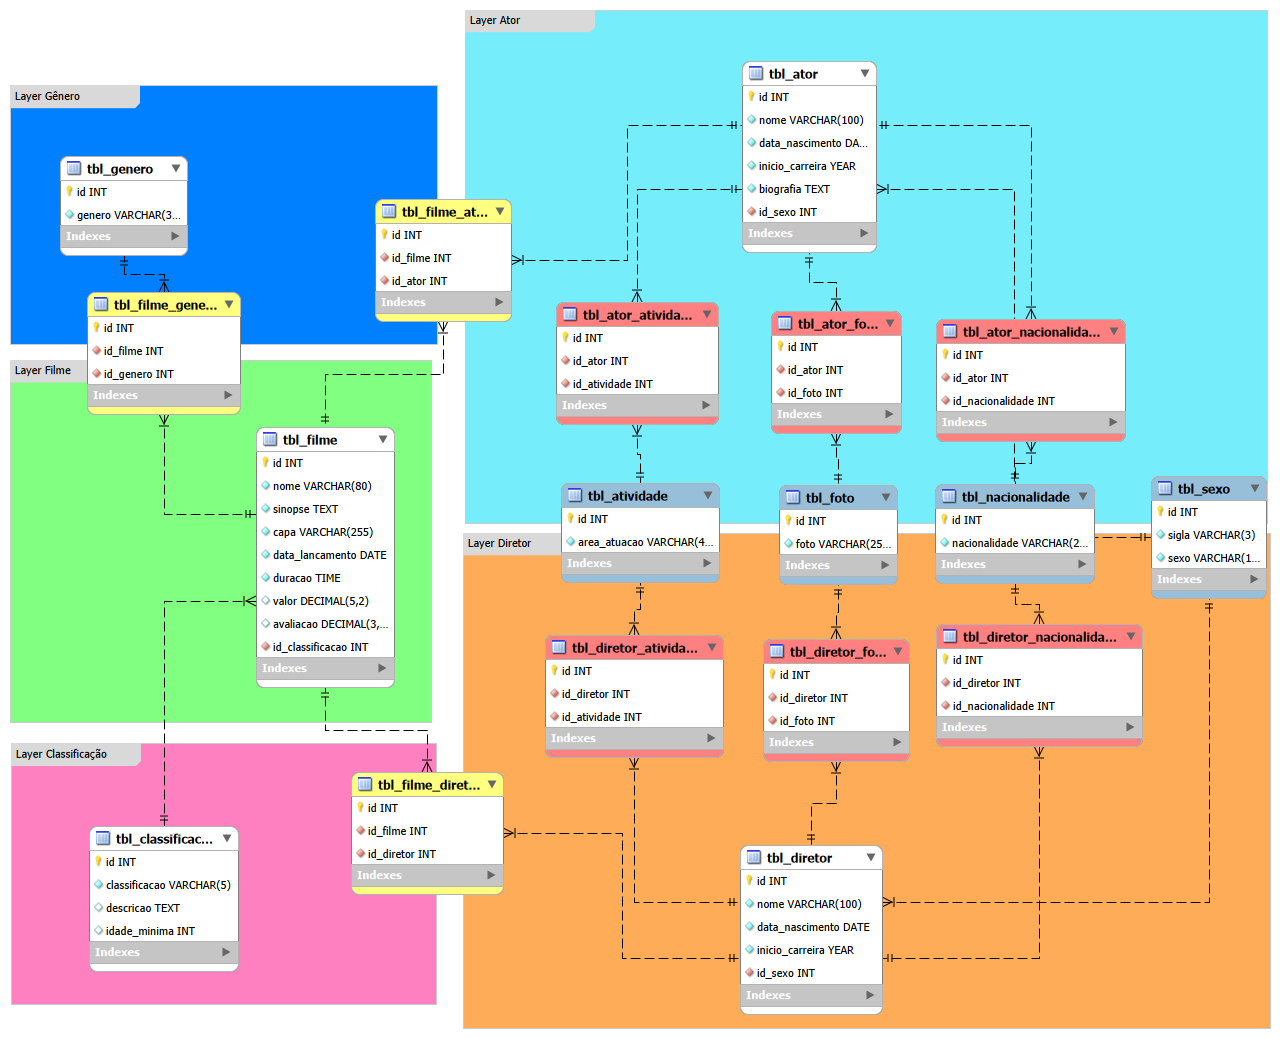
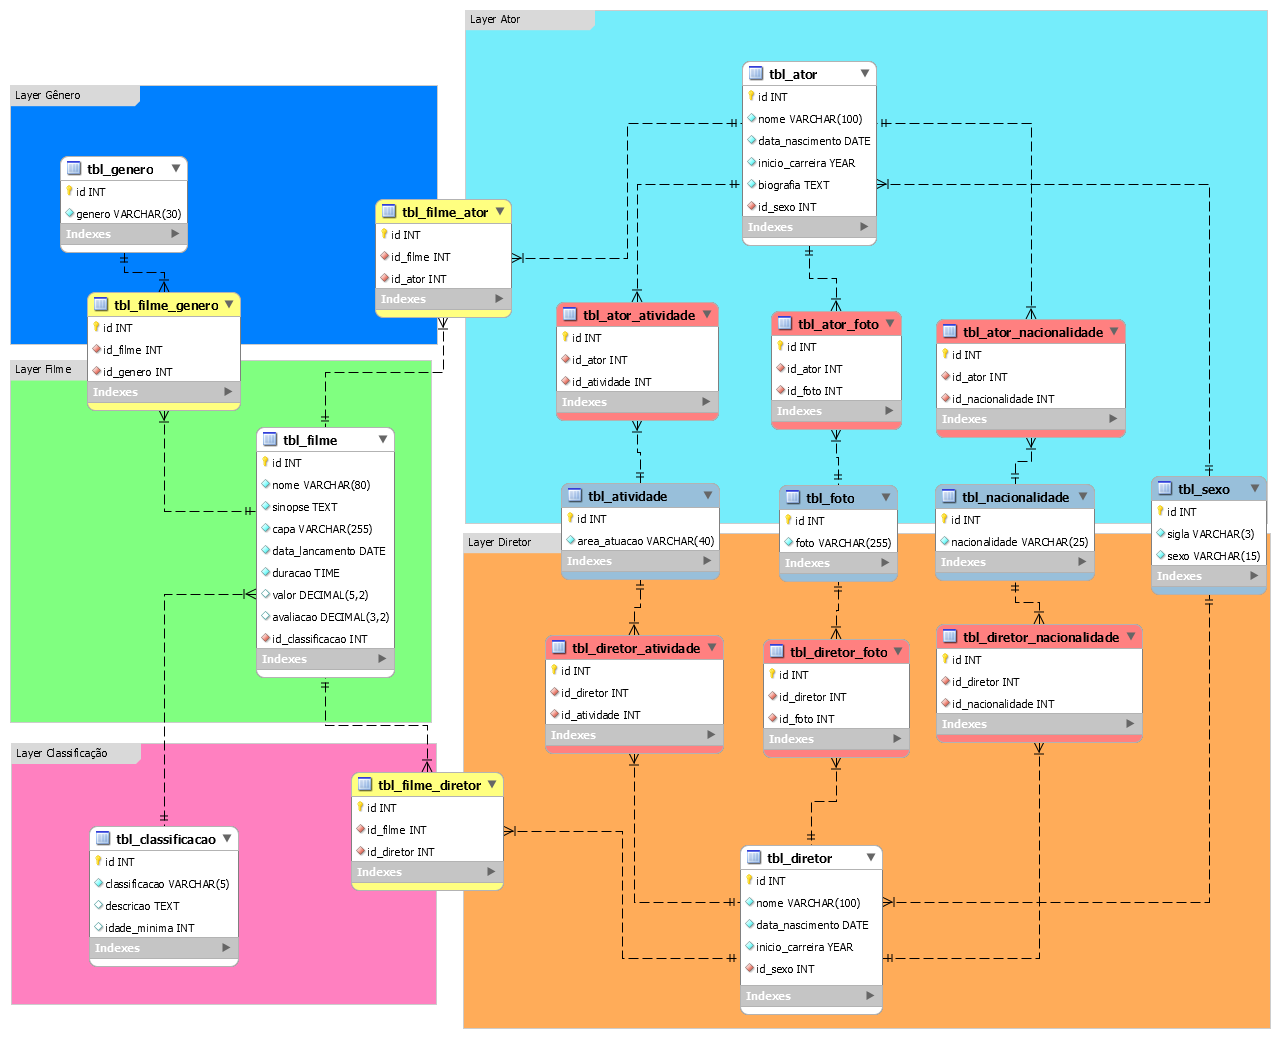
feat: finalizar CRUD de atividade

diff --git a/AULAS/Aula 06/controller/atividade/controller_atividade.js b/AULAS/Aula 06/controller/atividade/controller_atividade.js
@@ -1,0 +1,181 @@
+/*********************************************************************************************************************************
+ * Objetivo: Arquivo responsável pela validação, tratamento e manipulação de dados para realizar o CRUD da atividade profissional.
+ * Data: 17/04/2026 (sexta-feira)
+ * Autor: Gustavo Vidal de Abreu
+ * Versão: 1.0
+*********************************************************************************************************************************/
+
+// Import do arquivo de configurações de mensagens do projeto
+const configMessages = require('../modulo/configMessages.js')
+
+// Import do arquivo do DAO para manipular os dados de atividade profissional no Banco de Dados
+const atividadeDAO = require('../../model/DAO/atividade/atividade.js')
+
+const inserirNovaAtividade = async function (atividade, contentType) {
+    let customMessages = JSON.parse(JSON.stringify(configMessages))
+
+    try {
+        if (String(contentType).toUpperCase() == 'APPLICATION/JSON') {
+            let validar = await validarDados(atividade)
+
+            if (validar) {
+                return validar // status-code: 400
+            } else {
+                let result = await atividadeDAO.insertAtividade(atividade)
+
+                if (result) {
+                    atividade.id = result
+
+                    customMessages.DEFAULT_MESSAGE.status = customMessages.SUCCESS_CREATED_ITEM.status
+                    customMessages.DEFAULT_MESSAGE.status_code = customMessages.SUCCESS_CREATED_ITEM.status_code
+                    customMessages.DEFAULT_MESSAGE.message = customMessages.SUCCESS_CREATED_ITEM.message
+                    customMessages.DEFAULT_MESSAGE.response = atividade
+
+                    return customMessages.DEFAULT_MESSAGE // status-code: 201
+                } else {
+                    return customMessages.ERROR_INTERNAL_SERVER_MODEL // status-code: 500 (model)
+                }
+            }
+        } else {
+            return configMessages.ERROR_CONTENT_TYPE // status-code: 415
+        }
+    } catch (error) {
+        return configMessages.ERROR_INTERNAL_SERVER_CONTROLLER // status-code: 500 (controller)
+    }
+}
+
+const atualizarAtividade = async function (atividade, id, contentType) {
+    let customMessages = JSON.parse(JSON.stringify(configMessages))
+
+    try {
+        if (String(contentType).toUpperCase() == 'APPLICATION/JSON') {
+            let buscarAtividadeResult = await buscarAtividade(id)
+
+            if (buscarAtividadeResult.status) {
+                let validar = await validarDados(atividade)
+
+                if (!validar) {
+                    atividade.id = Number(id)
+
+                    let result = await atividadeDAO.updateAtividade(atividade)
+
+                    if (result) {
+                        customMessages.DEFAULT_MESSAGE.status = customMessages.SUCCESS_UPDATED_ITEM.status
+                        customMessages.DEFAULT_MESSAGE.status_code = customMessages.SUCCESS_UPDATED_ITEM.status_code
+                        customMessages.DEFAULT_MESSAGE.message = customMessages.SUCCESS_UPDATED_ITEM.message
+                        customMessages.DEFAULT_MESSAGE.response = atividade
+
+                        return customMessages.DEFAULT_MESSAGE // status-code: 200
+                    } else {
+                        return customMessages.ERROR_INTERNAL_SERVER_MODEL // status-code: 500 (model)
+                    }
+                } else {
+                    return validar // status-code: 400 (atributo)
+                }
+            } else {
+                return buscarAtividadeResult // status-code: 400 (id) ou 404
+            }
+        } else {
+            return customMessages.ERROR_CONTENT_TYPE // status-code: 415
+        }
+    } catch (error) {
+        return customMessages.ERROR_INTERNAL_SERVER_CONTROLLER // status-code: 500 (controller)
+    }
+}
+
+const listarAtividade = async function () {
+    let customMessages = JSON.parse(JSON.stringify(configMessages))
+
+    try {
+        let result = await atividadeDAO.selectAllAtividade()
+
+        if (result) {
+            if (result.length > 0) {
+                customMessages.DEFAULT_MESSAGE.status = customMessages.SUCCESS_RESPONSE.status
+                customMessages.DEFAULT_MESSAGE.status_code = customMessages.SUCCESS_RESPONSE.status_code
+                customMessages.DEFAULT_MESSAGE.response.count = result.length
+                customMessages.DEFAULT_MESSAGE.response.atividades = result
+
+                return customMessages.DEFAULT_MESSAGE // status-code: 200
+            } else {
+                return customMessages.ERROR_NOT_FOUND // status-code: 404
+            }
+        } else {
+            return customMessages.ERROR_INTERNAL_SERVER_MODEL // status-code: 500 (model)
+        }
+
+    } catch (error) {
+        return customMessages.ERROR_INTERNAL_SERVER_CONTROLLER // status-code: 500 (controller)
+    }
+}
+
+const buscarAtividade = async function (id) {
+    let customMessages = JSON.parse(JSON.stringify(configMessages))
+
+    try {
+        if (id == undefined || String(id).replaceAll(' ', '') == '' || id == null || isNaN(id) || id < 1) {
+            customMessages.ERROR_BAD_REQUEST.field = '[ID] INVÁLIDO'
+            return customMessages.ERROR_BAD_REQUEST // status-code: 400
+        } else {
+            let result = await atividadeDAO.selectByIdAtividade(id)
+
+            if (result) {
+                if (result.length > 0) {
+                    customMessages.DEFAULT_MESSAGE.status = customMessages.SUCCESS_RESPONSE.status
+                    customMessages.DEFAULT_MESSAGE.status_code = customMessages.SUCCESS_RESPONSE.status_code
+                    customMessages.DEFAULT_MESSAGE.response.atividade = result
+
+                    return customMessages.DEFAULT_MESSAGE // status-code: 200
+                } else {
+                    return customMessages.ERROR_NOT_FOUND // status-code: 404
+                }
+            } else {
+                return customMessages.ERROR_INTERNAL_SERVER_MODEL // status-code: 500 (model)
+            }
+        }
+    } catch (error) {
+        return customMessages.ERROR_INTERNAL_SERVER_CONTROLLER // status-code: 500 (controller)
+    }
+}
+
+const excluirAtividade = async function (id) {
+    let customMessages = JSON.parse(JSON.stringify(configMessages))
+
+    try {
+        let buscarAtividadeResult = await buscarAtividade(id)
+
+        if (buscarAtividadeResult.status) {
+            let result = await atividadeDAO.deleteAtividade(id)
+
+            if (result) {
+                return customMessages.SUCCESS_DELETED_ITEM // status-code: 200
+            } else {
+                return customMessages.ERROR_INTERNAL_SERVER_MODEL // status-code: 500 (model)
+            }
+        } else {
+            return buscarAtividadeResult // status-code: 400 (id) ou 404
+        }
+    } catch (error) {
+        return customMessages.ERROR_INTERNAL_SERVER_CONTROLLER // status-code: 500 (controller)
+    }
+}
+
+const validarDados = async function (atividade) {
+    let customMessages = JSON.parse(JSON.stringify(configMessages))
+
+    if (atividade.area_atuacao == undefined || atividade.area_atuacao == '' || atividade.area_atuacao == null || atividade.area_atuacao.length > 40) {
+        customMessages.ERROR_BAD_REQUEST.field = '[ATIVIDADE] INVÁLIDA'
+    } else {
+        return false
+    }
+
+    return customMessages.ERROR_BAD_REQUEST
+}
+
+module.exports = {
+    inserirNovaAtividade,
+    atualizarAtividade,
+    listarAtividade,
+    buscarAtividade,
+    excluirAtividade
+}

diff --git a/AULAS/Aula 06/app.js b/AULAS/Aula 06/app.js
@@ -180,9 +180,9 @@ app.delete('/v1/senai/locadora/nacionalidade/:id', async function (request, resp
 const controllerFoto = require('./controller/foto/controller_foto.js')
 
 app.post('/v1/senai/locadora/foto', bodyParserJSON, async function (request, response) {
-    let dados = request.body
+    let dados       = request.body
     let contentType = request.headers['content-type']
-    let result = await controllerFoto.inserirNovaFoto(dados, contentType)
+    let result      = await controllerFoto.inserirNovaFoto(dados, contentType)
 
     response.status(result.status_code)
     response.json(result)
@@ -196,7 +196,7 @@ app.get('/v1/senai/locadora/foto', async function (request, response) {
 })
 
 app.get('/v1/senai/locadora/foto/:id', async function (request, response) {
-    let id = request.params.id
+    let id     = request.params.id
     let result = await controllerFoto.buscarFoto(id)
 
     response.status(result.status_code)
@@ -205,17 +205,66 @@ app.get('/v1/senai/locadora/foto/:id', async function (request, response) {
 
 app.put('/v1/senai/locadora/foto/:id', bodyParserJSON, async function (request, response) {
     let contentType = request.headers['content-type']
-    let id = request.params.id
-    let dados = request.body
-    let result = await controllerFoto.atualizarFoto(dados, id, contentType)
+    let id          = request.params.id
+    let dados       = request.body
+    let result      = await controllerFoto.atualizarFoto(dados, id, contentType)
 
     response.status(result.status_code)
     response.json(result)
 })
 
 app.delete('/v1/senai/locadora/foto/:id', async function (request, response) {
-    let id = request.params.id
+    let id     = request.params.id
     let result = await controllerFoto.excluirFoto(id)
+
+    response.status(result.status_code)
+    response.json(result)
+})
+
+
+
+//*****************************//
+// ENDPOINTS - Tabela "ATIVIDADE"
+//*****************************//
+const controllerAtividade = require('./controller/atividade/controller_atividade.js')
+
+app.post('/v1/senai/locadora/atividade', bodyParserJSON, async function (request, response) {
+    let dados       = request.body
+    let contentType = request.headers['content-type']
+    let result      = await controllerAtividade.inserirNovaAtividade(dados, contentType)
+
+    response.status(result.status_code)
+    response.json(result)
+})
+
+app.get('/v1/senai/locadora/atividade', async function (request, response) {
+    let result = await controllerAtividade.listarAtividade()
+
+    response.status(result.status_code)
+    response.json(result)
+})
+
+app.get('/v1/senai/locadora/atividade/:id', async function (request, response) {
+    let id     = request.params.id
+    let result = await controllerAtividade.buscarAtividade(id)
+
+    response.status(result.status_code)
+    response.json(result)
+})
+
+app.put('/v1/senai/locadora/atividade/:id', bodyParserJSON, async function (request, response) {
+    let contentType = request.headers['content-type']
+    let id          = request.params.id
+    let dados       = request.body
+    let result      = await controllerAtividade.atualizarAtividade(dados, id, contentType)
+
+    response.status(result.status_code)
+    response.json(result)
+})
+
+app.delete('/v1/senai/locadora/atividade/:id', async function (request, response) {
+    let id     = request.params.id
+    let result = await controllerAtividade.excluirAtividade(id)
 
     response.status(result.status_code)
     response.json(result)